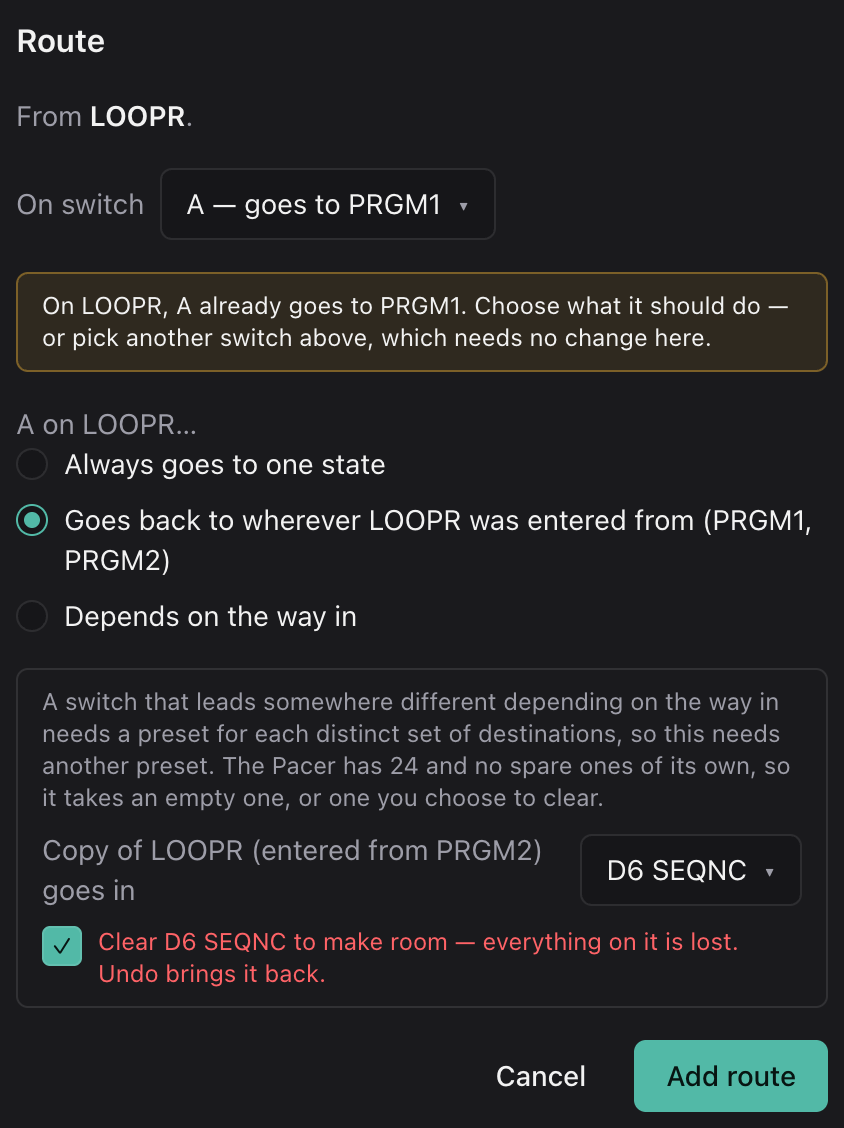
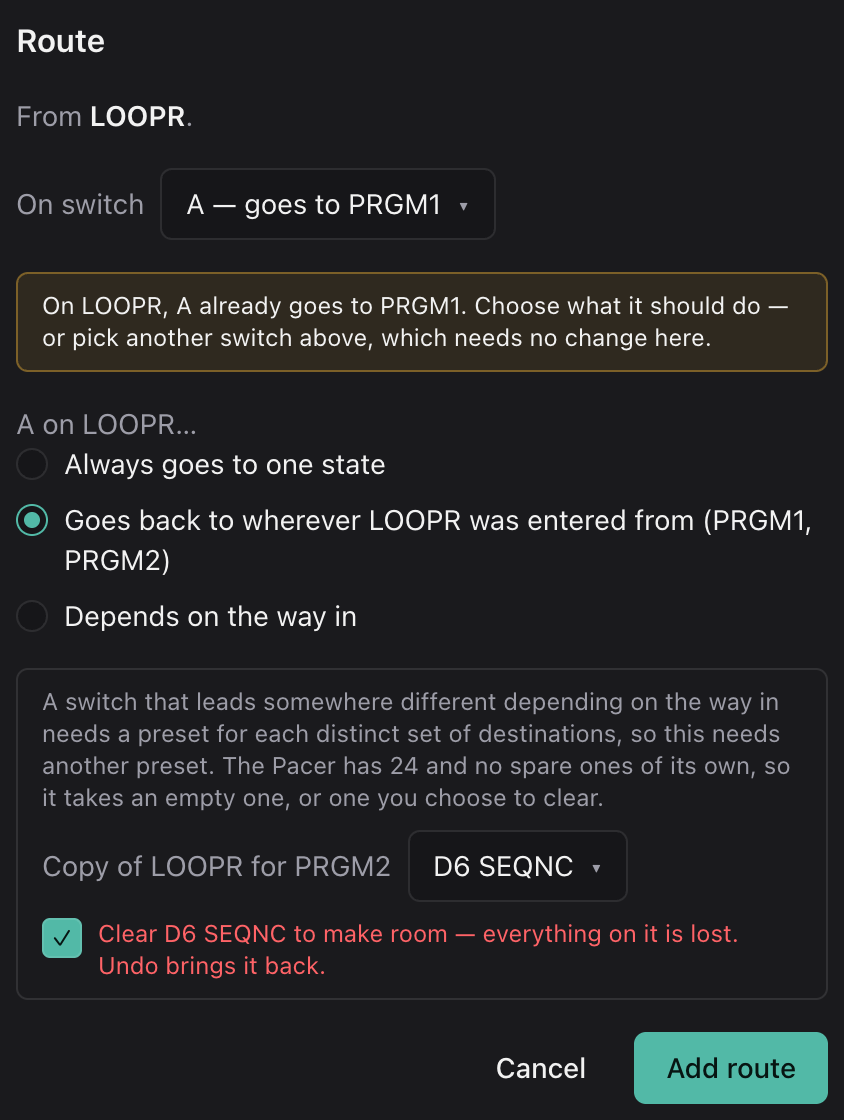
Shorten the slot picker's label to "Copy of LOOPR for MAIN1"
"Copy of LOOPR (entered from MAIN1) goes in" wrapped onto two lines
beside its picker, and the paragraph above it already says the copy
needs a preset. The label now names the state and the way in it's for,
and nothing else.

diff --git a/src/ui/map/RouteDialog.tsx b/src/ui/map/RouteDialog.tsx
@@ -409,7 +409,7 @@ function RouteForm({ intent, onClose }: { intent: RouteIntent; onClose: () => vo
               key={i}
               // The label wraps rather than the slot shrinking: "D6 EM…" doesn't say which preset.
               className="[&>button]:shrink-0"
-              label={`Copy of ${nameOf(need.stateId)}${need.enteredFrom ? ` (entered from ${nameOf(need.enteredFrom)})` : ""} goes in`}
+              label={`Copy of ${nameOf(need.stateId)}${need.enteredFrom ? ` for ${nameOf(need.enteredFrom)}` : ""}`}
               value={slots[i] === undefined ? undefined : String(slots[i])}
               onChange={(id) => {
                 setInto((prev) => {

diff --git a/src/ui/map/__tests__/RouteDialog.test.tsx b/src/ui/map/__tests__/RouteDialog.test.tsx
@@ -112,7 +112,7 @@ describe("editing a route from the map", () => {
       />,
     );
     expect(screen.getByText(/needs another preset/)).toBeTruthy();
-    expect(screen.getByLabelText("Copy of LOOPR (entered from MAIN2) goes in")).toBeTruthy();
+    expect(screen.getByLabelText("Copy of LOOPR for MAIN2")).toBeTruthy();
 
     fireEvent.click(screen.getByRole("button", { name: "Add route" }));
     expect(onClose).toHaveBeenCalled();

diff --git a/docs/tutorials/2-a-second-way-in.md b/docs/tutorials/2-a-second-way-in.md
@@ -39,7 +39,7 @@ to A2. It needs no copy at all. But we want A to do it, so:
    there is the one thing that takes a second copy, and the copy needs a
    preset of its own. The Pacer doesn't have any empty ones, so the dialog
    says **No empty presets left. Choose one to clear.**
-4. For **Copy of LOOPR (entered from PRGM2) goes in**, choose **D6 SEQNC**.
+4. For **Copy of LOOPR for PRGM2**, choose **D6 SEQNC**.
    It's listed under **In use — would be cleared**, along with every other
    preset that no route leads to or from.
 5. Tick **Clear D6 SEQNC to make room**. Everything on D6 goes, so the dialog

diff --git a/CLAUDE.md b/CLAUDE.md
@@ -1073,7 +1073,7 @@ no hover-only UI, for tablets.
     back. The defaults and answers are per switch: picking A after the
     dialog opened on a free switch has to raise A's question.
   - **Every answer is priced** by running the edit dry (`planRoute`): a
-    picker per needed copy, "Copy of LOOPR (entered from MAIN1) goes in",
+    picker per needed copy, "Copy of LOOPR for MAIN1",
     offering empty presets first and then ones it may clear (see "What it
     refuses"), and the presets it frees.
   - **Replacing what a switch does** is a tick-box in the same dialog, since

diff --git a/docs/reference/preset-map.md b/docs/reference/preset-map.md
@@ -140,7 +140,7 @@ a state instead.
 ### When a Route Costs a Preset
 
 The dialog works out the cost before it writes anything. Each new copy gets a
-picker, **Copy of LOOPR (entered from MAIN1) goes in**, which offers empty
+picker, **Copy of LOOPR for MAIN1** (the copy LOOPR needs for when it's entered from MAIN1), which offers empty
 presets first. If there aren't any, which is how a Pacer starts out, it lists
 the presets no route leads to or from under **In use — would be cleared**.
 Choose one of those and the dialog asks you to tick a box naming the preset
